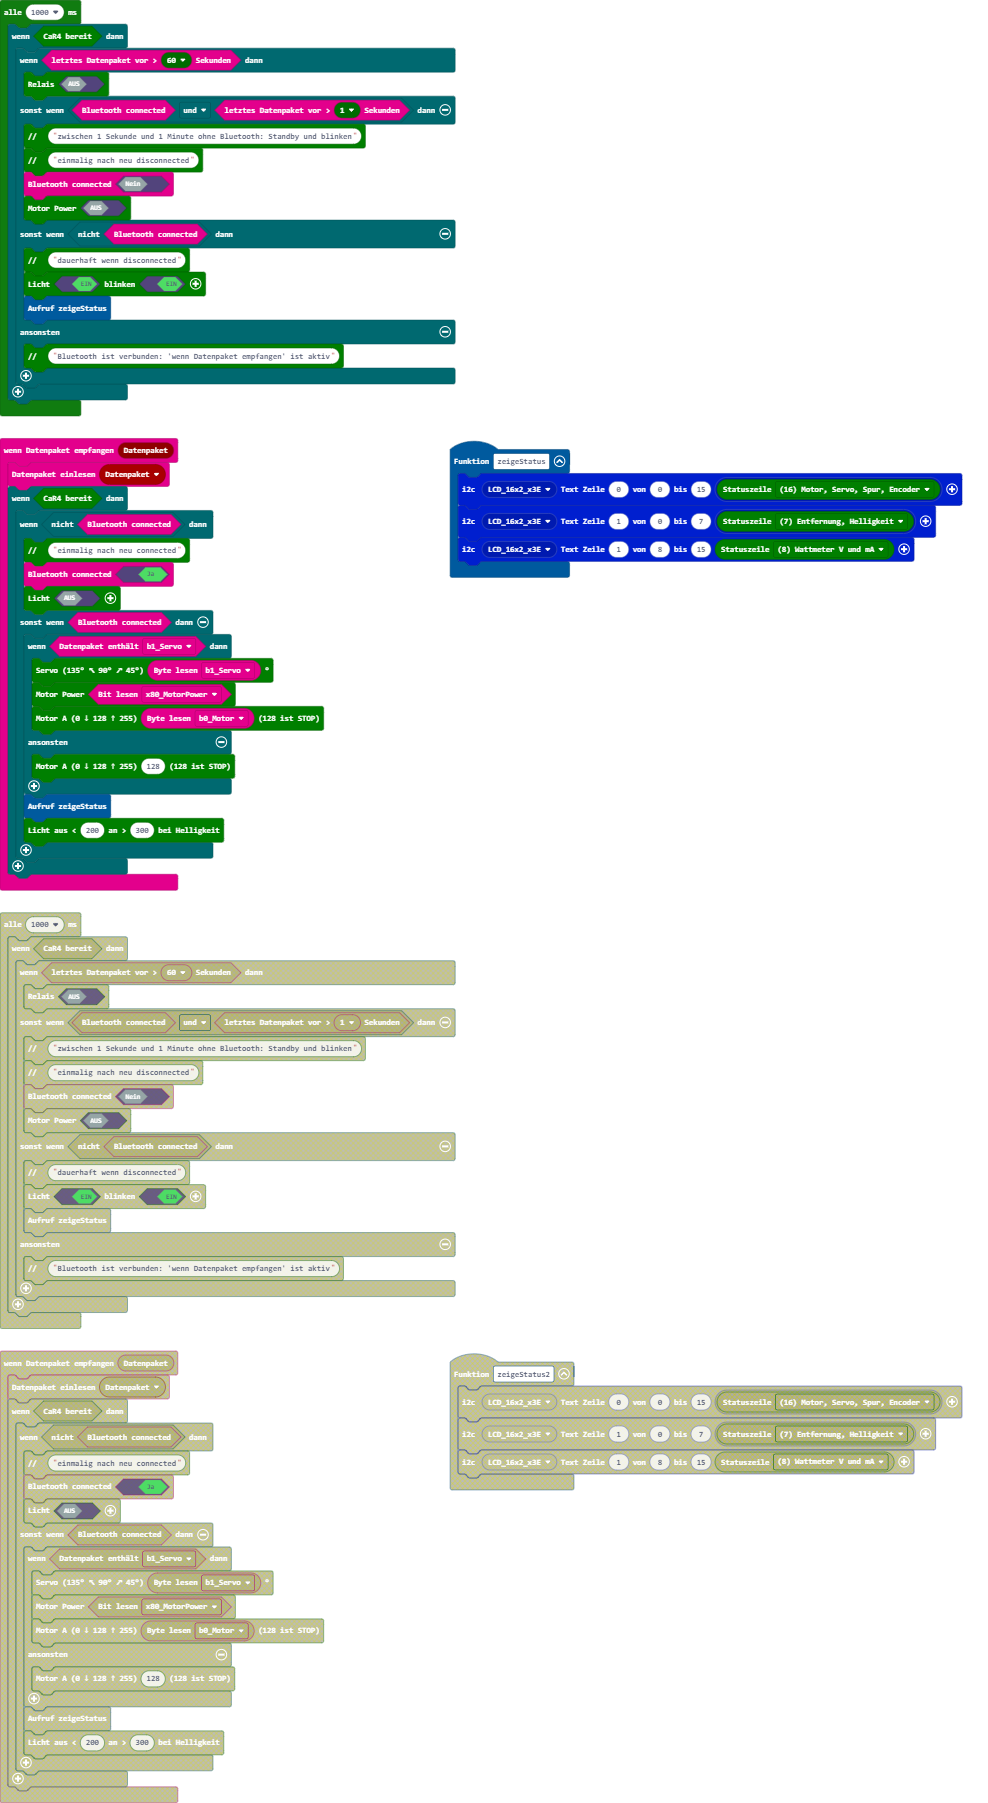
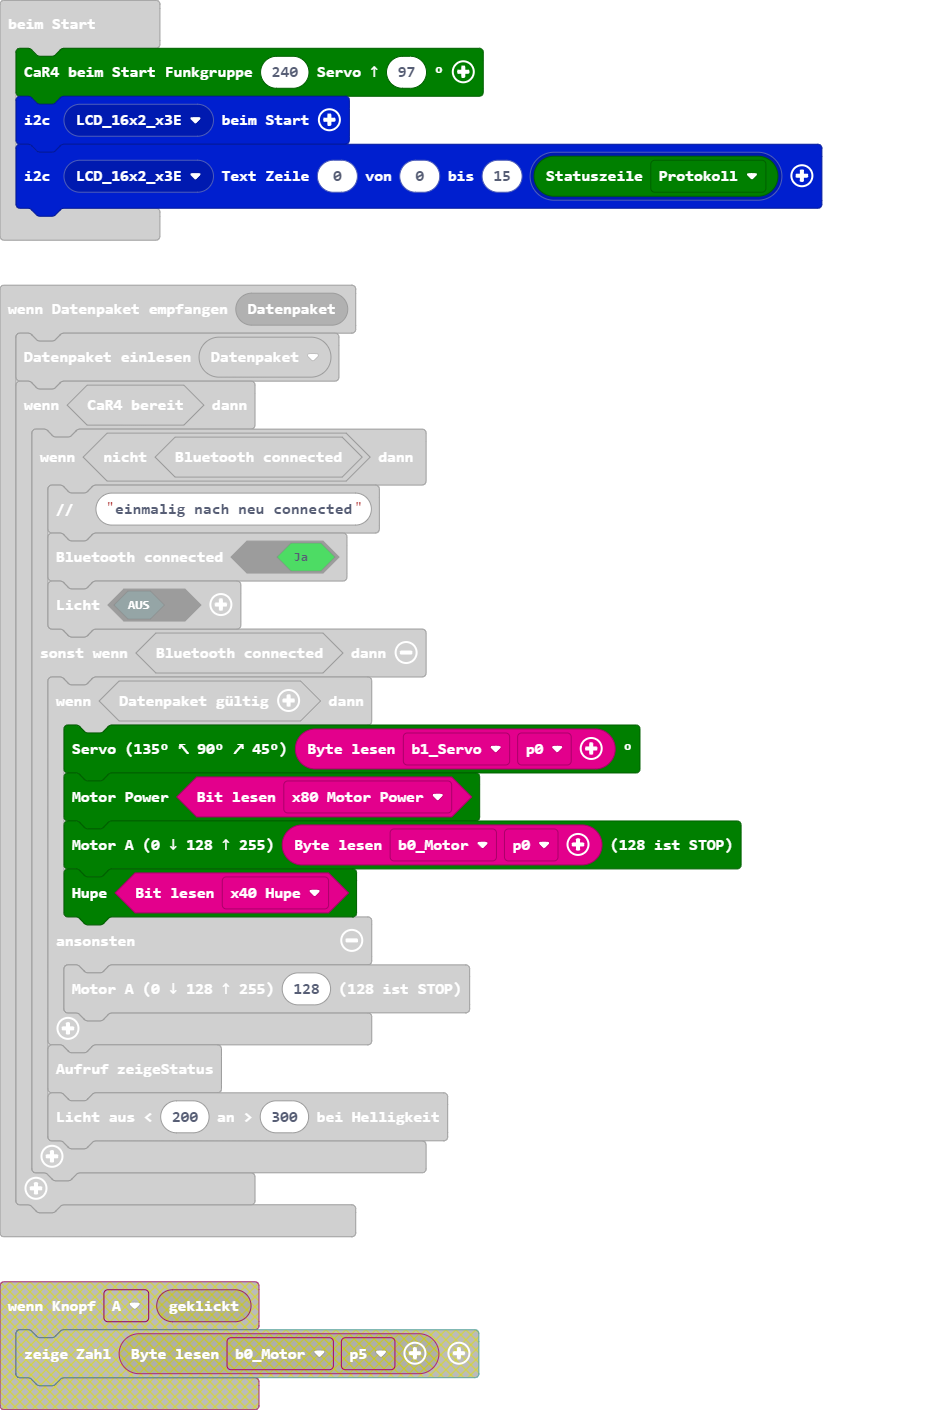
Aktualisiere pxt.json, main.blocks, main.ts

diff --git a/main.ts b/main.ts
@@ -1,6 +1,3 @@
-input.onButtonEvent(Button.A, input.buttonEventClick(), function () {
-    basic.showNumber(car4.receivedBuffer_getUint8(car4.eBuffer.b0_Motor))
-})
 function zeigeStatus () {
     lcd16x2rgb.writeText(lcd16x2rgb.lcd16x2_eADDR(lcd16x2rgb.eADDR_LCD.LCD_16x2_x3E), 0, 0, 15, lcd16x2rgb.lcd16x2_text(car4.statuszeile1(car4.eStatuszeile.a)))
     lcd16x2rgb.writeText(lcd16x2rgb.lcd16x2_eADDR(lcd16x2rgb.eADDR_LCD.LCD_16x2_x3E), 1, 0, 7, lcd16x2rgb.lcd16x2_text(car4.statuszeile1(car4.eStatuszeile.b)))
@@ -18,9 +15,10 @@ radio.onReceivedBuffer(function (Datenpaket) {
             car4.licht(false)
         } else if (car4.isConnected()) {
             if (car4.receivedBuffer_Contains()) {
-                car4.servo(car4.receivedBuffer_getUint8(car4.eBuffer.b1_Servo))
-                car4.motorON(false)
-                car4.motorA255(car4.receivedBuffer_getUint8(car4.eBuffer.b0_Motor))
+                car4.servo(car4.receivedBuffer_getUint8(car4.eBufferOffset.b1_Servo))
+                car4.motorON(car4.receivedBuffer_getBit(car4.eBit.x80_MotorPower))
+                car4.motorA255(car4.receivedBuffer_getUint8(car4.eBufferOffset.b0_Motor))
+                car4.buzzer(car4.receivedBuffer_getBit(car4.eBit.x40_Hupe))
             } else {
                 car4.motorA255(128)
             }
@@ -32,6 +30,9 @@ radio.onReceivedBuffer(function (Datenpaket) {
 control.onEvent(car4.encoder_EventSource(), EventBusValue.MICROBIT_EVT_ANY, function () {
 	
 })
+car4.beimStart(240, 97)
+lcd16x2rgb.initLCD(lcd16x2rgb.lcd16x2_eADDR(lcd16x2rgb.eADDR_LCD.LCD_16x2_x3E))
+lcd16x2rgb.writeText(lcd16x2rgb.lcd16x2_eADDR(lcd16x2rgb.eADDR_LCD.LCD_16x2_x3E), 0, 0, 15, lcd16x2rgb.lcd16x2_text(car4.statuszeile1(car4.eStatuszeile.start)))
 loops.everyInterval(1000, function () {
     if (car4.car4ready()) {
         if (car4.lastConnected(car4.car4_ePause(car4.ePause.p60))) {
